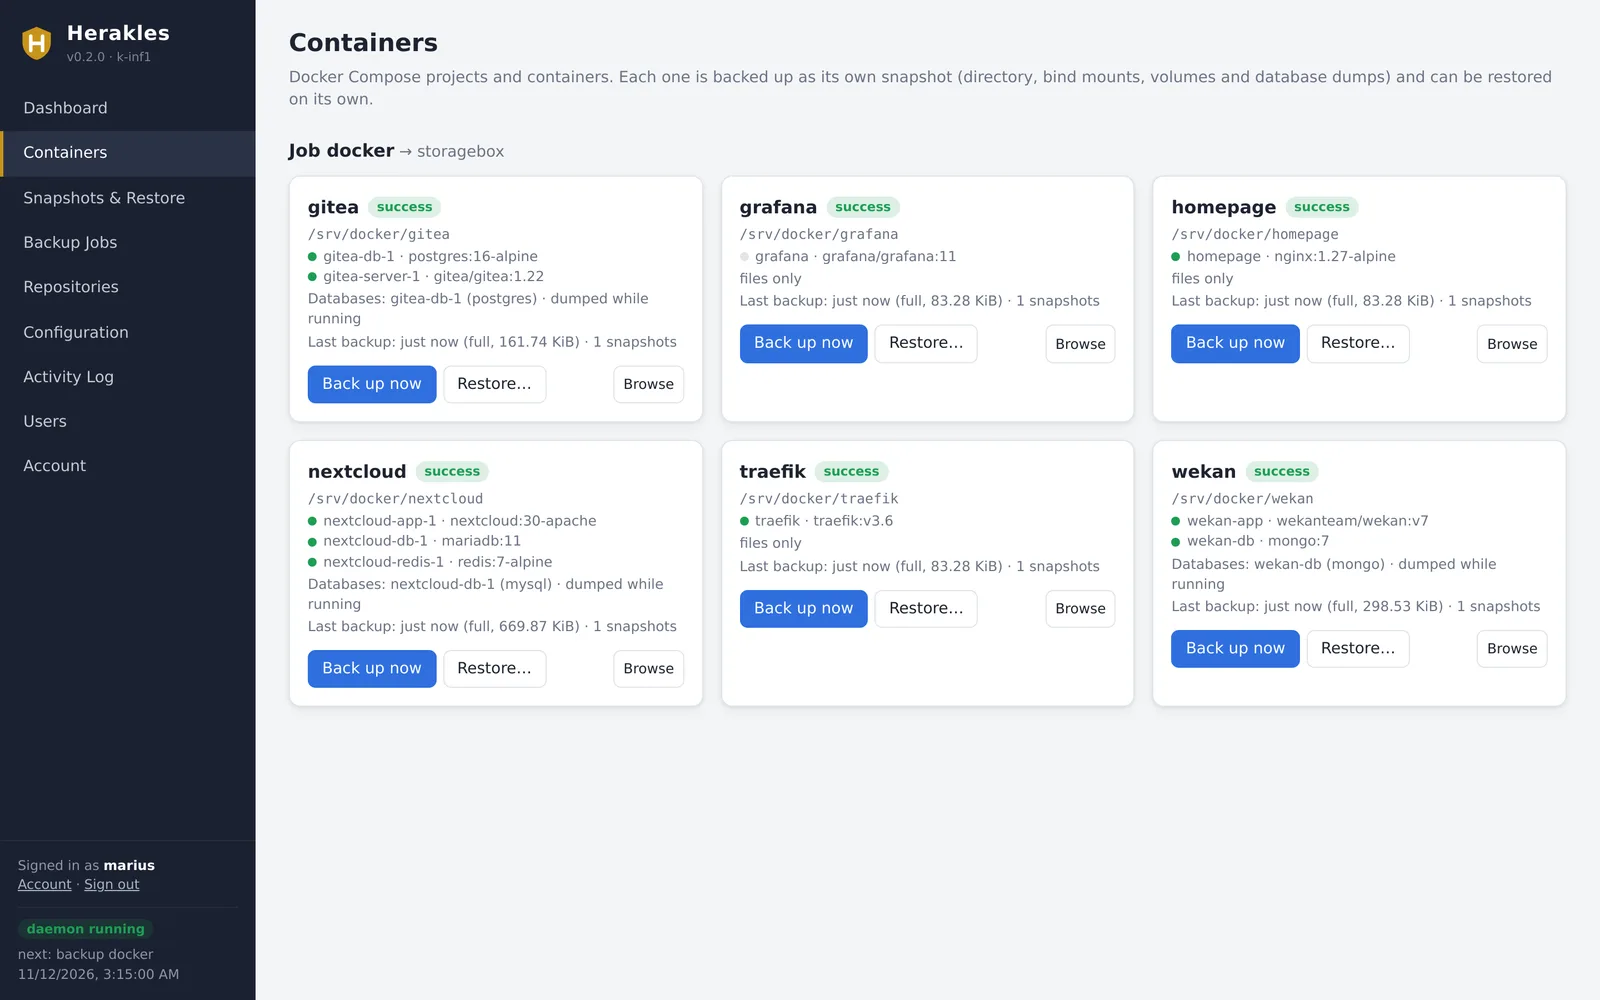
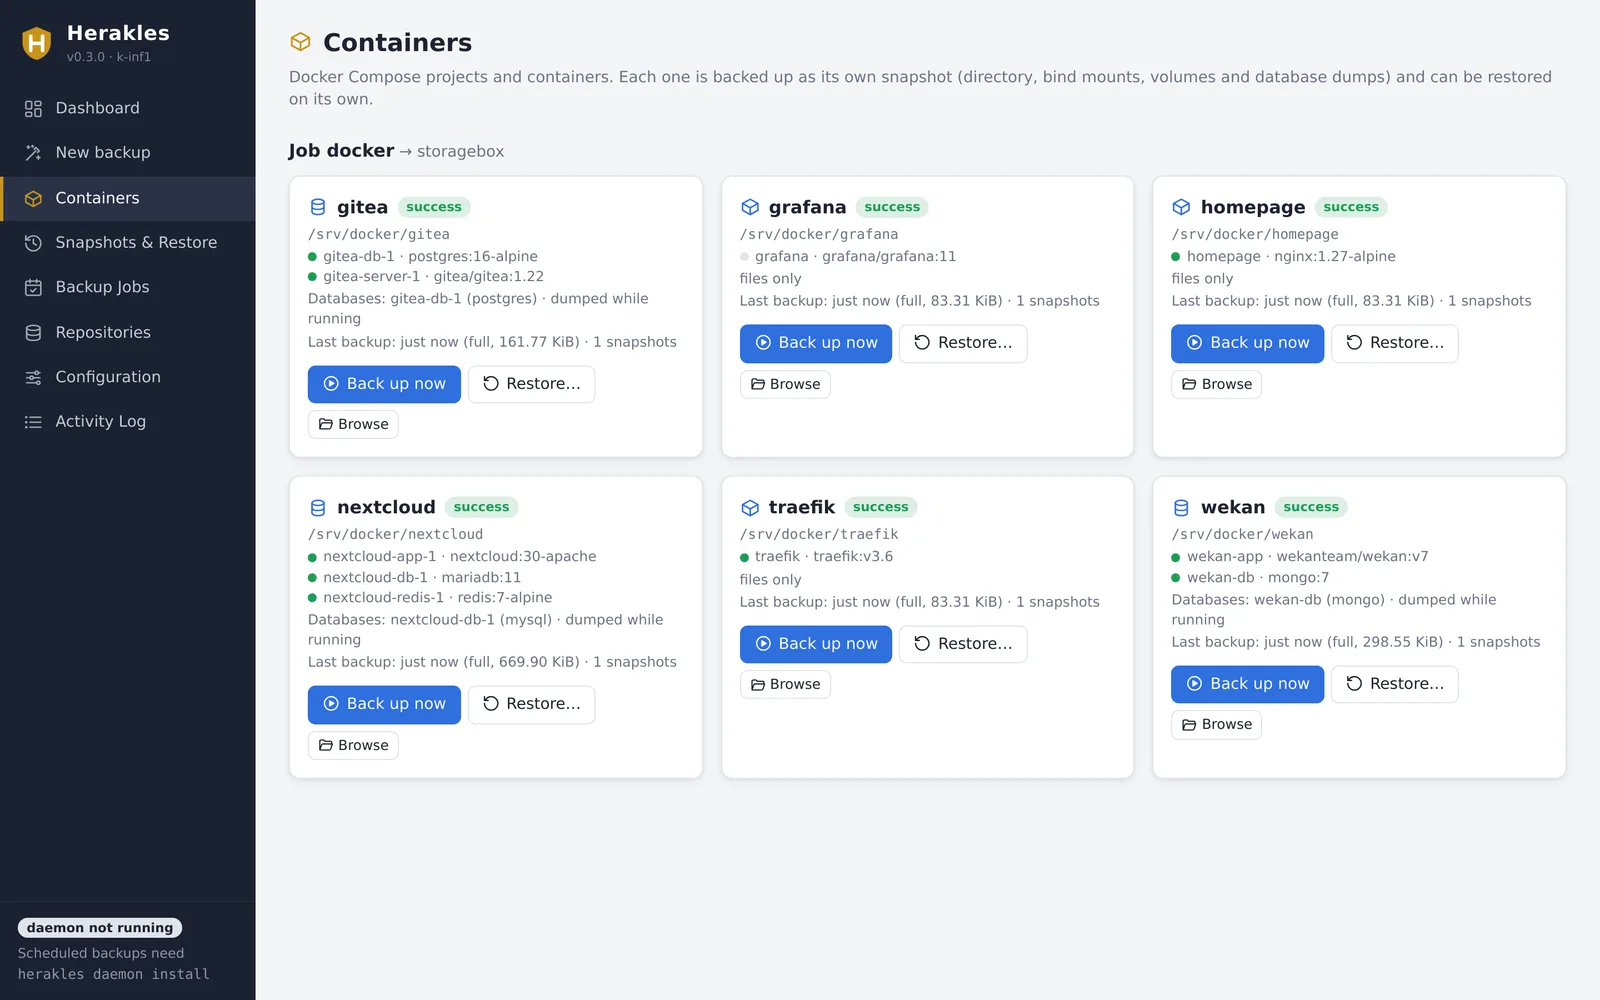
Docs and website: backup wizard, project directories growing to their bind mounts; new screenshots with pictograms
Claude-Session: https://claude.ai/code/session_013pn2LoZ1hRCk9iLwXo3a7y

diff --git a/website/site/guide.html b/website/site/guide.html
@@ -97,6 +97,9 @@ herakles version</pre>
 
 <h2 id="quick-start">Quick start</h2>
 <h3 id="qs-gui">With the desktop interface</h3>
+<p>The quickest way is the <strong>backup wizard</strong>: start the interface and click <strong>New backup</strong> (or <em>Get started</em> on the empty dashboard). It asks six things — what, sources, where, when, how long, name — and then creates the repository, saves the job and starts the first backup. The terminal UI has the same wizard on the key <kbd>w</kbd>.</p>
+<figure class="frame"><img src="img/wizard.webp" width="1600" height="1000" loading="lazy" alt="Backup wizard: choose what to back up"></figure>
+<p>Or set it up by hand:</p>
 <ol>
   <li>Start Herakles in the tray and open its window:
 <pre>herakles tray --open</pre>
@@ -494,6 +497,7 @@ services:
 <tr><td><code>exclude_projects: [portainer]</code></td><td>Always left out.</td></tr>
 <tr><td><code>stop: [zammad]</code></td><td>Stopped during their backup instead of dumping their databases.</td></tr>
 </table>
+<p>A project's own directory is its Compose directory, grown to the closest common parent of its bind mounts if that is still a directory of its own (inside a configured folder, containing no other project). Bitwarden keeps its compose file in <code>bwdata/docker</code> and mounts <code>bwdata/core</code>, <code>bwdata/mssql</code> and others: the whole <code>bwdata</code>, including <code>config.yml</code> and <code>env/</code>, belongs to the project. A bind mount that contains other projects (such as a deploy tool mounting <code>/srv/docker</code>) is left out of that project, and an in-place restore that would replace another project is refused.</p>
 <p>In the GUI, open <strong>Backup Jobs → New job</strong> (or Edit), tick <strong>Back up Docker containers</strong> and choose <em>All projects on this host</em> or <em>Only the projects I choose</em>. The editor lists every project on the host: tick the ones to back up, and per project whether it is stopped during its backup; folders you enter are applied right away (their projects show an “in /srv” tag). On the command line:</p>
 <pre>herakles config set job containers --repository nas --docker-folder /srv \
     --docker-project wiki --docker-exclude portainer --docker-stop zammad \
@@ -640,6 +644,8 @@ herakles copy --from usb-disk --to offsite 2939cbe7</pre>
          forget | prune | check | stats | copy | key | unlock | repair index
          docker | web | config | daemon | server | tui | gui | tray | version</pre>
 <p>Global options: <code>-c/--config</code>, <code>-r/--repo</code> (a repository name or a location), <code>--password-file</code>, <code>--key-file</code>, <code>--no-prompt</code>, <code>--json</code> (machine-readable output), <code>-q</code>, <code>-v</code>. Exit codes: <code>0</code> success, <code>1</code> error, <code>3</code> backup finished but some files could not be read. Shell completion: <code>herakles completion bash|zsh|fish|powershell</code>.</p>
+<h3>Backup wizard</h3>
+<p>In the GUI under <strong>New backup</strong>, in the terminal UI with <kbd>w</kbd> on the dashboard. Steps: <em>What</em> (files and folders, Docker containers, a disk or partition) → <em>Sources</em> (suggested folders, presets to leave out caches, build folders, downloads; the Docker project picker) → <em>Where</em> (an existing repository, or a new one on a local or USB disk, an SMB share, an SFTP server or a Herakles server; the encryption password is generated and shown once, chosen, or asked for each time) → <em>When</em> (every night, weekly full with daily incremental, every 4 hours, manual) → <em>How long</em> (one week, standard, long, everything) → <em>Finish</em> (name, summary, start the first backup). Stored passwords go into <code>&lt;repository&gt;.password</code> next to the configuration with mode 0600.</p>
 <h3>Terminal UI: <code>herakles tui</code></h3>
 <p>A full-screen interface for terminals and SSH sessions, with five tabs (keys <kbd>1</kbd>–<kbd>5</kbd> or <kbd>F1</kbd>–<kbd>F5</kbd>):</p>
 <ol>

diff --git a/website/site/index.html b/website/site/index.html
@@ -133,9 +133,10 @@ verified 1180 files</pre>
     <p class="intro">The <a href="guide.html#quick-start">guide</a> walks through it in detail, including the command line way.</p>
     <div class="steps">
       <div class="step"><h3>Download and start</h3><p>Download the file for your system and start the desktop interface.</p><pre>herakles tray --open</pre></div>
-      <div class="step"><h3>Add a repository</h3><p>Under <em>Repositories</em>, choose where backups go (for example a USB disk or your NAS), pick a password and click <em>Initialize</em>.</p></div>
-      <div class="step"><h3>Create a job</h3><p>Under <em>Backup Jobs</em>, choose folders and a schedule preset. Click <em>Back up now</em>, and tick <em>Start in the tray when I log in</em>.</p></div>
+      <div class="step"><h3>Follow the wizard</h3><p>Click <em>New backup</em>: choose what to back up, where to (a USB disk, your NAS, a server), when and for how long.</p></div>
+      <div class="step"><h3>Done</h3><p>The wizard creates the encrypted repository, saves the job and starts the first backup. From then on it runs on schedule.</p></div>
     </div>
+    <div class="frame" style="margin-top:28px"><img src="img/wizard.webp" width="1600" height="1000" loading="lazy" alt="The backup wizard: what do you want to back up?"></div>
   </div>
 </section>
 

diff --git a/README.md b/README.md
@@ -5,6 +5,7 @@
 It ships as a single static binary for Linux and Windows. That one binary contains:
 
 * a command line interface (`herakles …`),
+* a backup wizard in the GUI and the terminal UI that sets up a complete job step by step,
 * a curses‑style terminal UI (`herakles tui`),
 * a graphical desktop UI (`herakles gui`),
 * a tray icon that runs the daemon and the GUI on your desktop (`herakles tray`),
@@ -166,6 +167,10 @@ herakles init | backup | jobs | snapshots | ls | find | diff | restore | restore
 
 Every command has `--help` with examples. `--json` gives machine‑readable output. Exit codes: `0` ok, `1` error, `3` backup finished but some files could not be read.
 
+### Backup wizard
+
+**New backup** in the GUI (also *Get started* on an empty dashboard and *Backup wizard* on the jobs page) and `w` in the terminal UI lead through: what to back up (files and folders, Docker containers, a disk or partition) → sources (with suggested folders, exclusion presets and the Docker project picker) → where (an existing repository or a new one on a local/USB disk, SMB share, SFTP server or Herakles server, with a generated or chosen password stored next to the configuration with mode 0600, or asked for each time) → when (schedule presets) → how long (retention presets) → name and summary. The wizard creates and initialises the repository, saves the job and can start the first backup.
+
 ### Terminal UI — `herakles tui`
 
 A full‑screen curses‑style interface with five tabs (keys `1`–`5` or `F1`–`F5`):
@@ -244,6 +249,8 @@ jobs:
 ```
 
 Without `projects` and `folders` every project on the host is backed up. `folders` includes every project whose directory lies inside one of them (for standalone containers: one of their bind mounts), so projects created later are picked up automatically; folders are also searched (three levels deep) for project directories whose containers do not exist. Everything else in the folders (files that belong to no project) goes into the job's own snapshot, so nothing in them is missed and nothing is stored twice. `projects` adds projects by name or glob, `exclude_projects` always wins. In the GUI job editor you tick the projects on the host (and per project whether it is stopped during its backup); on the command line use `config set job NAME --docker-folder /srv --docker-project wiki --docker-exclude portainer --docker-stop zammad`.
+
+A project's own directory is the Compose directory, grown to the closest common parent of its bind mounts when that is still a directory of its own (inside a configured folder and containing no other project). Bitwarden, for example, keeps its compose file in `bwdata/docker` and mounts `bwdata/core`, `bwdata/mssql`, …: the whole `bwdata` (with `config.yml` and `env/`) belongs to the project. A bind mount that contains other projects (a deploy tool mounting `/srv/docker`) is left out of the project, and an in-place restore that would replace another project is refused.
 
 Projects are discovered from the Compose container labels. Each project gets its own snapshot `containers/<project>` holding the project directory, bind mounts outside it, its named volumes (by mount and by Compose label, so stopped projects keep theirs), `docker inspect` output and logical dumps of its Postgres, MySQL/MariaDB and MongoDB containers (taken while running; database containers without a server, such as backup sidecars, are skipped). Retention and history work per project.
 
